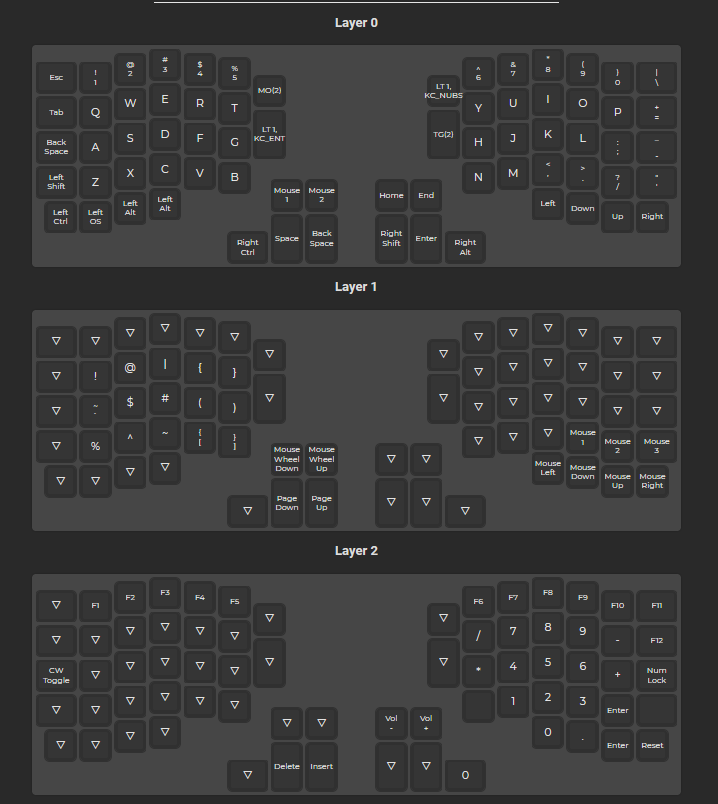
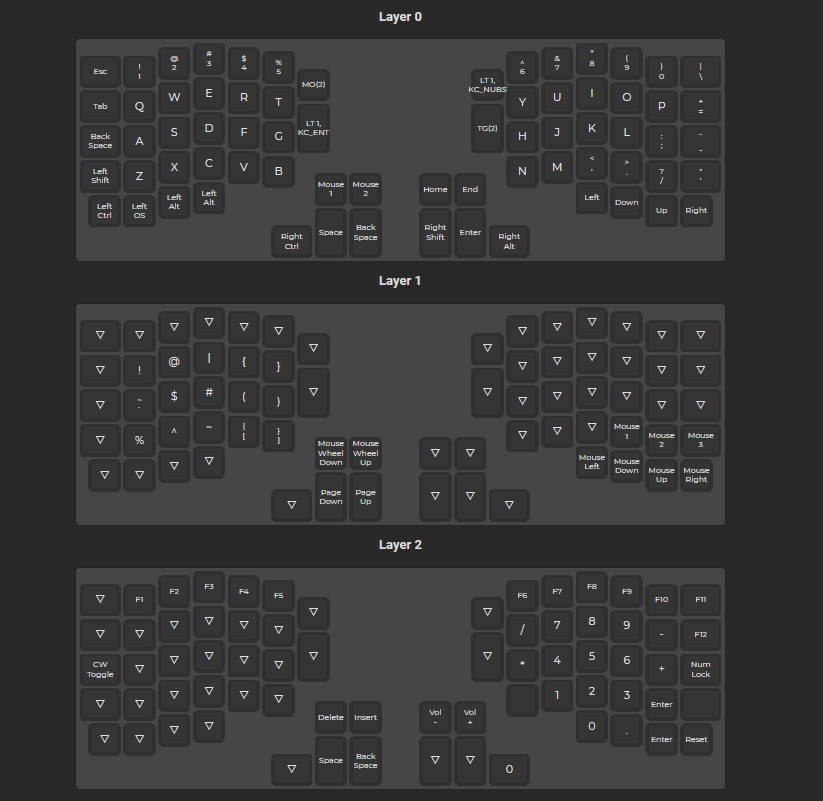
modified 2nd layer for better use

diff --git a/keymap.c b/keymap.c
@@ -11,7 +11,7 @@
 const uint16_t PROGMEM keymaps[][MATRIX_ROWS][MATRIX_COLS] = {
 	[0] = LAYOUT(KC_ESC, KC_1, KC_2, KC_3, KC_4, KC_5, KC_6, KC_7, KC_8, KC_9, KC_0, KC_NUHS, KC_TAB, KC_Q, KC_W, KC_E, KC_R, KC_T, MO(2), LT(1,KC_NUBS), KC_Y, KC_U, KC_I, KC_O, KC_P, KC_EQL, KC_BSPC, KC_A, KC_S, KC_D, KC_F, KC_G, LT(1,KC_ENT), TG(2), KC_H, KC_J, KC_K, KC_L, KC_SCLN, KC_MINS, KC_LSFT, KC_Z, KC_X, KC_C, KC_V, KC_B, KC_BTN1, KC_BTN2, KC_HOME, KC_END, KC_N, KC_M, KC_COMM, KC_DOT, KC_SLSH, KC_QUOT, KC_LCTL, KC_LGUI, KC_LALT, KC_LALT, KC_RCTL, KC_SPC, KC_BSPC, KC_RSFT, KC_ENT, KC_RALT, KC_LEFT, KC_DOWN, KC_UP, KC_RGHT),
 	[1] = LAYOUT(KC_TRNS, KC_TRNS, KC_TRNS, KC_TRNS, KC_TRNS, KC_TRNS, KC_TRNS, KC_TRNS, KC_TRNS, KC_TRNS, KC_TRNS, KC_TRNS, KC_TRNS, KC_EXLM, KC_AT, KC_PIPE, KC_LCBR, KC_RCBR, KC_TRNS, KC_TRNS, KC_TRNS, KC_TRNS, KC_TRNS, KC_TRNS, KC_TRNS, KC_TRNS, KC_TRNS, KC_GRV, KC_DLR, KC_HASH, KC_LPRN, KC_RPRN, KC_TRNS, KC_TRNS, KC_TRNS, KC_TRNS, KC_TRNS, KC_TRNS, KC_TRNS, KC_TRNS, KC_TRNS, KC_PERC, KC_CIRC, KC_TILD, KC_LBRC, KC_RBRC, KC_WH_D, KC_WH_U, KC_TRNS, KC_TRNS, KC_TRNS, KC_TRNS, KC_TRNS, KC_BTN1, KC_BTN2, KC_BTN3, KC_TRNS, KC_TRNS, KC_TRNS, KC_TRNS, KC_TRNS, KC_PGDN, KC_PGUP, KC_TRNS, KC_TRNS, KC_TRNS, KC_MS_L, KC_MS_D, KC_MS_U, KC_MS_R),
-	[2] = LAYOUT(KC_TRNS, KC_F1, KC_F2, KC_F3, KC_F4, KC_F5, KC_F6, KC_F7, KC_F8, KC_F9, KC_F10, KC_F11, KC_TRNS, KC_TRNS, KC_TRNS, KC_TRNS, KC_TRNS, KC_TRNS, KC_TRNS, KC_TRNS, KC_PSLS, KC_P7, KC_P8, KC_P9, KC_PMNS, KC_F12, CW_TOGG, KC_TRNS, KC_TRNS, KC_TRNS, KC_TRNS, KC_TRNS, KC_TRNS, KC_TRNS, KC_PAST, KC_P4, KC_P5, KC_P6, KC_PPLS, KC_NUM, KC_TRNS, KC_TRNS, KC_TRNS, KC_TRNS, KC_TRNS, KC_TRNS, KC_TRNS, KC_TRNS, KC_VOLD, KC_VOLU, KC_NO, KC_P1, KC_P2, KC_P3, KC_PENT, KC_NO, KC_TRNS, KC_TRNS, KC_TRNS, KC_TRNS, KC_TRNS, KC_DEL, KC_INS, KC_TRNS, KC_TRNS, KC_P0, KC_P0, KC_PDOT, KC_PENT, QK_BOOT)
+	[2] = LAYOUT(KC_TRNS, KC_F1, KC_F2, KC_F3, KC_F4, KC_F5, KC_F6, KC_F7, KC_F8, KC_F9, KC_F10, KC_F11, KC_TRNS, KC_TRNS, KC_TRNS, KC_TRNS, KC_TRNS, KC_TRNS, KC_TRNS, KC_TRNS, KC_PSLS, KC_P7, KC_P8, KC_P9, KC_PMNS, KC_F12, CW_TOGG, KC_TRNS, KC_TRNS, KC_TRNS, KC_TRNS, KC_TRNS, KC_TRNS, KC_TRNS, KC_PAST, KC_P4, KC_P5, KC_P6, KC_PPLS, KC_NUM, KC_TRNS, KC_TRNS, KC_TRNS, KC_TRNS, KC_TRNS, KC_TRNS, KC_DEL, KC_INS, KC_VOLD, KC_VOLU, KC_NO, KC_P1, KC_P2, KC_P3, KC_PENT, KC_NO, KC_TRNS, KC_TRNS, KC_TRNS, KC_TRNS, KC_TRNS, KC_SPC, KC_BSPC, KC_TRNS, KC_TRNS, KC_P0, KC_P0, KC_PDOT, KC_PENT, QK_BOOT)
 };
 
 #if defined(ENCODER_ENABLE) && defined(ENCODER_MAP_ENABLE)
